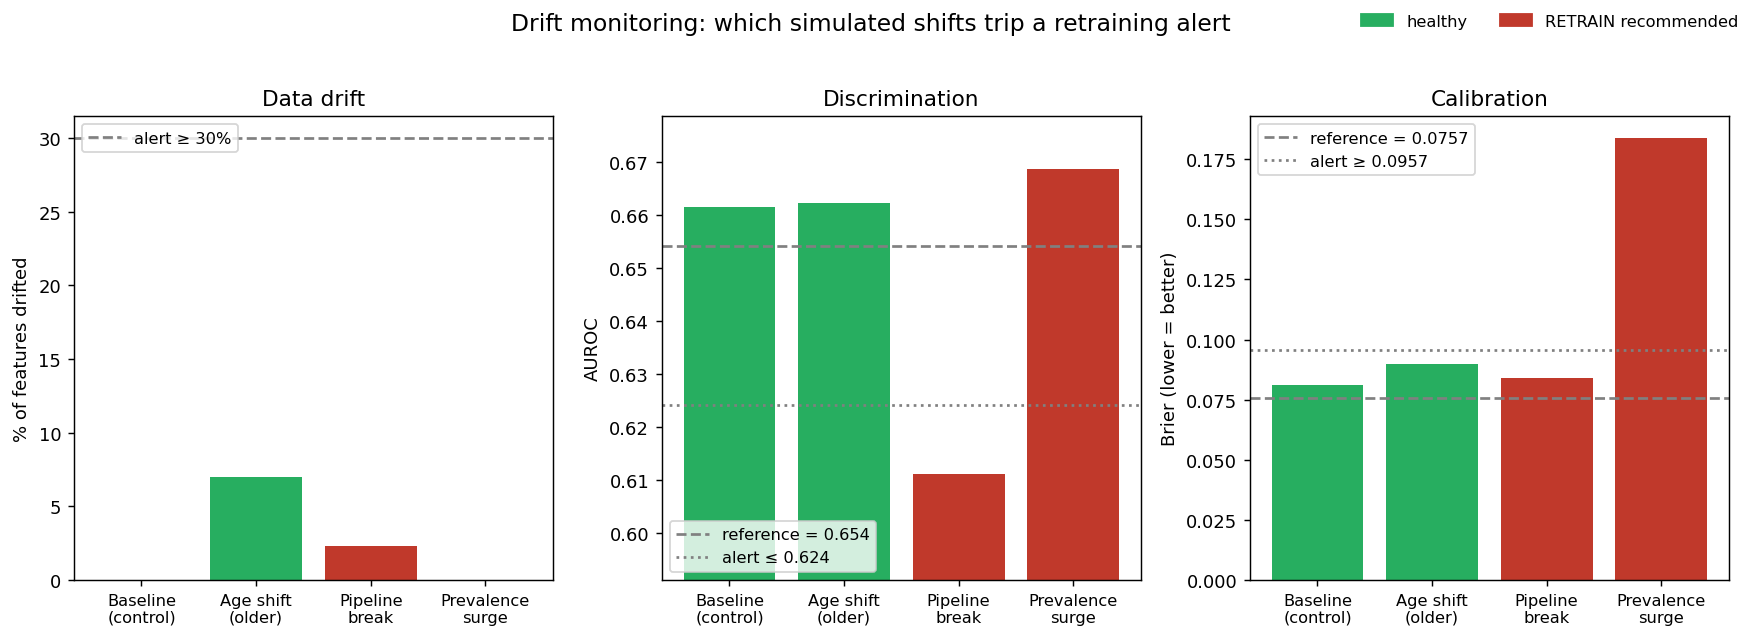
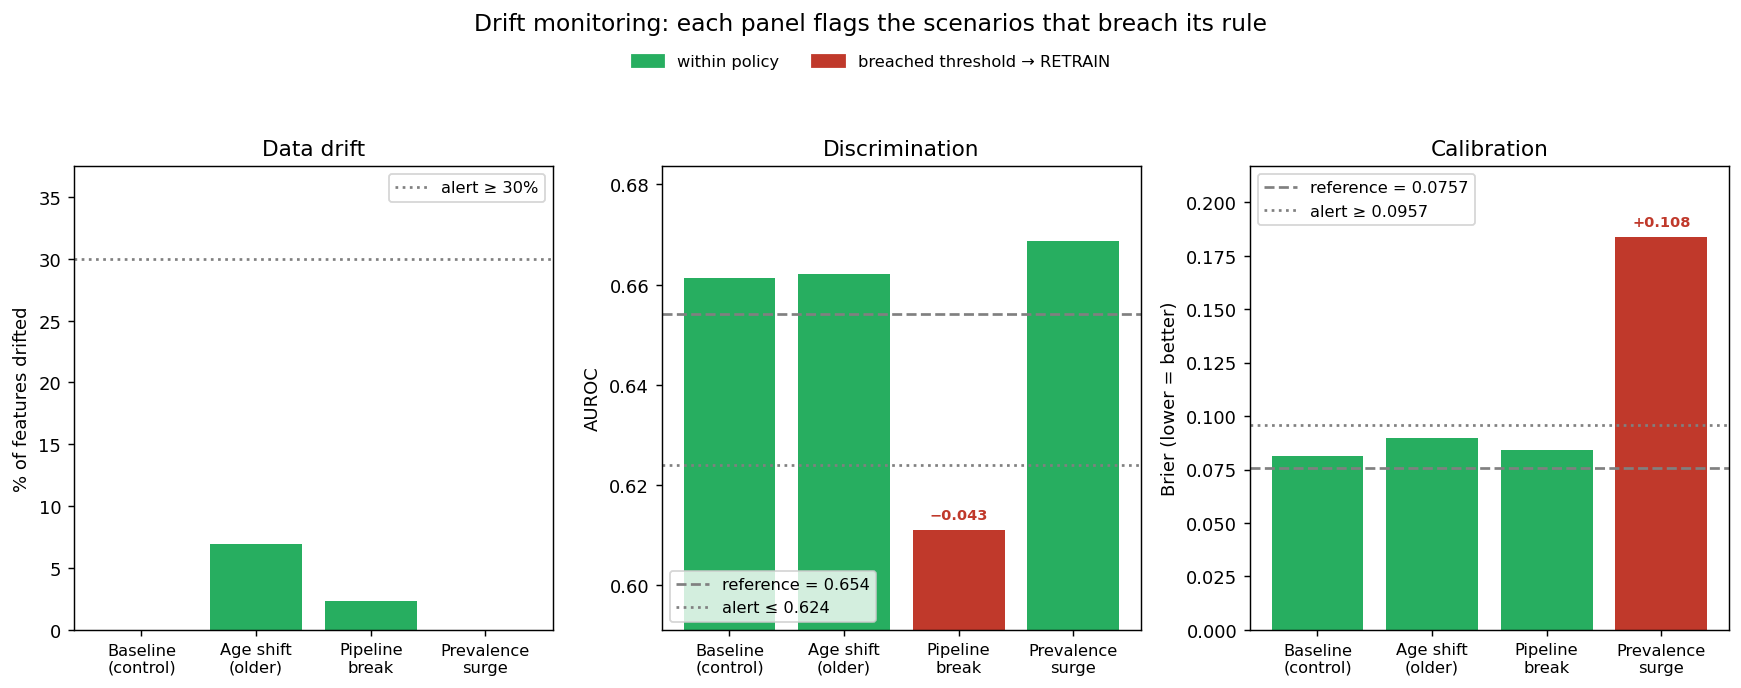
drift panel

diff --git a/src/drift.py b/src/drift.py
@@ -233,49 +233,76 @@ def plot_drift_panel(summary: dict, out_path: Path) -> None:
 
     Left: data-drift share vs. the alert line. Middle: AUROC vs. the validated
     reference and its drop tolerance. Right: Brier vs. reference and its rise
-    tolerance. Bars are coloured by the retrain verdict, so the eye lands first
-    on the scenarios that trip ``RETRAIN RECOMMENDED`` — making the central
-    claim ("we distinguish benign from harmful drift") legible at a glance.
+    tolerance. **Each bar is coloured per panel**: red only in the panel where
+    *that* metric breached its threshold, green otherwise. So a red bar always
+    means "this is the thing that's broken, right here" — no cross-referencing.
+    The breaching bar is annotated with the rule it tripped. This makes the
+    central claim ("we distinguish benign from harmful drift, and we can say
+    *why*") legible without mentally joining the three panels.
     """
     ref = summary["reference"]
     thr = summary["thresholds"]
     scenarios = summary["scenarios"]
     names = [n for n in PLOT_ORDER if n in scenarios]
     labels = [PLOT_LABELS.get(n, n) for n in names]
-    colors = [RETRAIN_COLOR if scenarios[n]["retrain_recommended"]
-              else HEALTHY_COLOR for n in names]
     x = np.arange(len(names))
+
+    def bar_color(breached: bool) -> str:
+        return RETRAIN_COLOR if breached else HEALTHY_COLOR
+
+    def annotate(ax, xi, top, text):
+        """Tag a breaching bar with the rule it tripped, just above the bar."""
+        ax.annotate(text, (xi, top), textcoords="offset points", xytext=(0, 4),
+                    ha="center", va="bottom", fontsize=8, fontweight="bold",
+                    color=RETRAIN_COLOR)
 
     fig, axes = plt.subplots(1, 3, figsize=(13.5, 4.8))
 
-    # --- Panel 1: data-drift share ---------------------------------------- #
+    # --- Panel 1: data-drift share (breaches when >= drift_share_alert) ---- #
     drift_vals = [scenarios[n]["drift_share"] * 100 for n in names]
-    axes[0].bar(x, drift_vals, color=colors)
-    axes[0].axhline(thr["drift_share_alert"] * 100, ls="--", color="grey",
+    drift_breach = [scenarios[n]["drift_share"] >= thr["drift_share_alert"]
+                    for n in names]
+    axes[0].bar(x, drift_vals, color=[bar_color(b) for b in drift_breach])
+    axes[0].axhline(thr["drift_share_alert"] * 100, ls=":", color="grey",
                     label=f"alert ≥ {thr['drift_share_alert']:.0%}")
+    for xi, v, b in zip(x, drift_vals, drift_breach):
+        if b:
+            annotate(axes[0], xi, v, "≥ alert")
+    axes[0].set_ylim(0, max(drift_vals + [thr["drift_share_alert"] * 100]) * 1.25)
     axes[0].set(ylabel="% of features drifted", title="Data drift")
-    axes[0].legend(loc="upper left", fontsize=9)
+    axes[0].legend(loc="upper right", fontsize=9)
 
-    # --- Panel 2: AUROC (higher is better) -------------------------------- #
+    # --- Panel 2: AUROC, higher is better (breaches when drop >= alert) ---- #
     auroc_vals = [scenarios[n]["auroc"] for n in names]
-    axes[1].bar(x, auroc_vals, color=colors)
+    auroc_drop = [ref["auroc"] - scenarios[n]["auroc"] for n in names]
+    auroc_breach = [d >= thr["auroc_drop_alert"] for d in auroc_drop]
+    axes[1].bar(x, auroc_vals, color=[bar_color(b) for b in auroc_breach])
     axes[1].axhline(ref["auroc"], ls="--", color="grey",
                     label=f"reference = {ref['auroc']:.3f}")
     axes[1].axhline(ref["auroc"] - thr["auroc_drop_alert"], ls=":", color="grey",
                     label=f"alert ≤ {ref['auroc'] - thr['auroc_drop_alert']:.3f}")
+    for xi, v, d, b in zip(x, auroc_vals, auroc_drop, auroc_breach):
+        if b:
+            annotate(axes[1], xi, v, f"−{d:.3f}")
     # Zoom to the band where the bars and threshold lines actually live.
     lo = min(auroc_vals + [ref["auroc"] - thr["auroc_drop_alert"]]) - 0.02
-    axes[1].set_ylim(max(0.0, lo), max(auroc_vals + [ref["auroc"]]) + 0.01)
+    axes[1].set_ylim(max(0.0, lo), max(auroc_vals + [ref["auroc"]]) + 0.015)
     axes[1].set(ylabel="AUROC", title="Discrimination")
     axes[1].legend(loc="lower left", fontsize=9)
 
-    # --- Panel 3: Brier (lower is better) --------------------------------- #
+    # --- Panel 3: Brier, lower is better (breaches when rise >= alert) ----- #
     brier_vals = [scenarios[n]["brier"] for n in names]
-    axes[2].bar(x, brier_vals, color=colors)
+    brier_rise = [scenarios[n]["brier"] - ref["brier"] for n in names]
+    brier_breach = [r >= thr["brier_rise_alert"] for r in brier_rise]
+    axes[2].bar(x, brier_vals, color=[bar_color(b) for b in brier_breach])
     axes[2].axhline(ref["brier"], ls="--", color="grey",
                     label=f"reference = {ref['brier']:.4f}")
     axes[2].axhline(ref["brier"] + thr["brier_rise_alert"], ls=":", color="grey",
                     label=f"alert ≥ {ref['brier'] + thr['brier_rise_alert']:.4f}")
+    for xi, v, r, b in zip(x, brier_vals, brier_rise, brier_breach):
+        if b:
+            annotate(axes[2], xi, v, f"+{r:.3f}")
+    axes[2].set_ylim(0, max(brier_vals) * 1.18)
     axes[2].set(ylabel="Brier (lower = better)", title="Calibration")
     axes[2].legend(loc="upper left", fontsize=9)
 
@@ -283,15 +310,17 @@ def plot_drift_panel(summary: dict, out_path: Path) -> None:
         ax.set_xticks(x)
         ax.set_xticklabels(labels, fontsize=9)
 
-    # A shared legend for the verdict colour-coding.
-    verdict_handles = [
+    # Shared legend: red now means "this metric breached its threshold".
+    legend_handles = [
         plt.Rectangle((0, 0), 1, 1, color=HEALTHY_COLOR),
         plt.Rectangle((0, 0), 1, 1, color=RETRAIN_COLOR),
     ]
-    fig.legend(verdict_handles, ["healthy", "RETRAIN recommended"],
-               loc="upper right", ncol=2, fontsize=9, frameon=False)
-    fig.suptitle("Drift monitoring: which simulated shifts trip a retraining alert",
-                 fontsize=13, y=1.02)
+    fig.suptitle("Drift monitoring: each panel flags the scenarios that breach "
+                 "its rule", fontsize=13, y=1.10)
+    fig.legend(legend_handles,
+               ["within policy", "breached threshold → RETRAIN"],
+               loc="center", bbox_to_anchor=(0.5, 1.02), ncol=2, fontsize=9,
+               frameon=False)
     fig.tight_layout()
     fig.savefig(out_path, dpi=130, bbox_inches="tight")
     plt.close(fig)

diff --git a/README.md b/README.md
@@ -127,14 +127,16 @@ RECOMMENDED**.
 
 ![Drift monitoring panel](docs/figures/drift_panel.png)
 
-_Bars are coloured by each scenario's overall retraining verdict (green =
-healthy, red = retrain). The dashed lines mark the validated reference; the
-dotted lines mark the alert thresholds. Read it left to right: `pipeline_break`
-fails on **discrimination** (AUROC drops below tolerance), while
-`prevalence_surge` fails on **calibration** (Brier blows past tolerance) despite
-**no feature drift at all** — the failure that pure data-drift monitoring would
-miss. The live, interactive version (with the full Evidently report per scenario)
-is the **🚨 Monitoring** tab of the dashboard._
+_Each bar is coloured **per panel**: red only where that metric breached its
+threshold (annotated with by how much), green otherwise — so a red bar always
+means "this is what's broken, right here." `pipeline_break` is caught **only** by
+the AUROC rule: collapsing the model's top feature is a mere ~2% of columns, so
+it barely registers as data drift, yet it drops discrimination 0.043 below
+tolerance. `prevalence_surge` is caught **only** by calibration: Brier blows past
+tolerance with **zero feature drift at all**. Both are failures that pure
+data-drift monitoring would miss but performance tracking catches. The live,
+interactive version (with the full Evidently report per scenario) is the **🚨
+Monitoring** tab of the dashboard._
 
 See the full model card in [`models/model_card.md`](models/model_card.md).
 